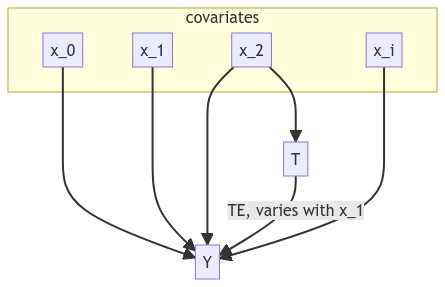
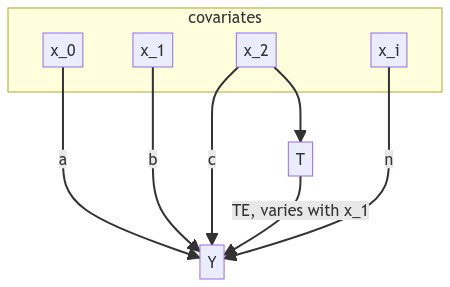
- update diagram

diff --git a/diagrams/causal_forest.md b/diagrams/causal_forest.md
@@ -6,10 +6,10 @@ x1[x_1]
 x2[x_2]
 xi[x_i]
 end
-x0-->y
-x1-->y
-x2-->y
-xi-->y
+x0--a-->y
+x1--b-->y
+x2--c-->y
+xi--n-->y
 y[Y]
 t[T]
 t-- TE, varies with x_1 -->y
